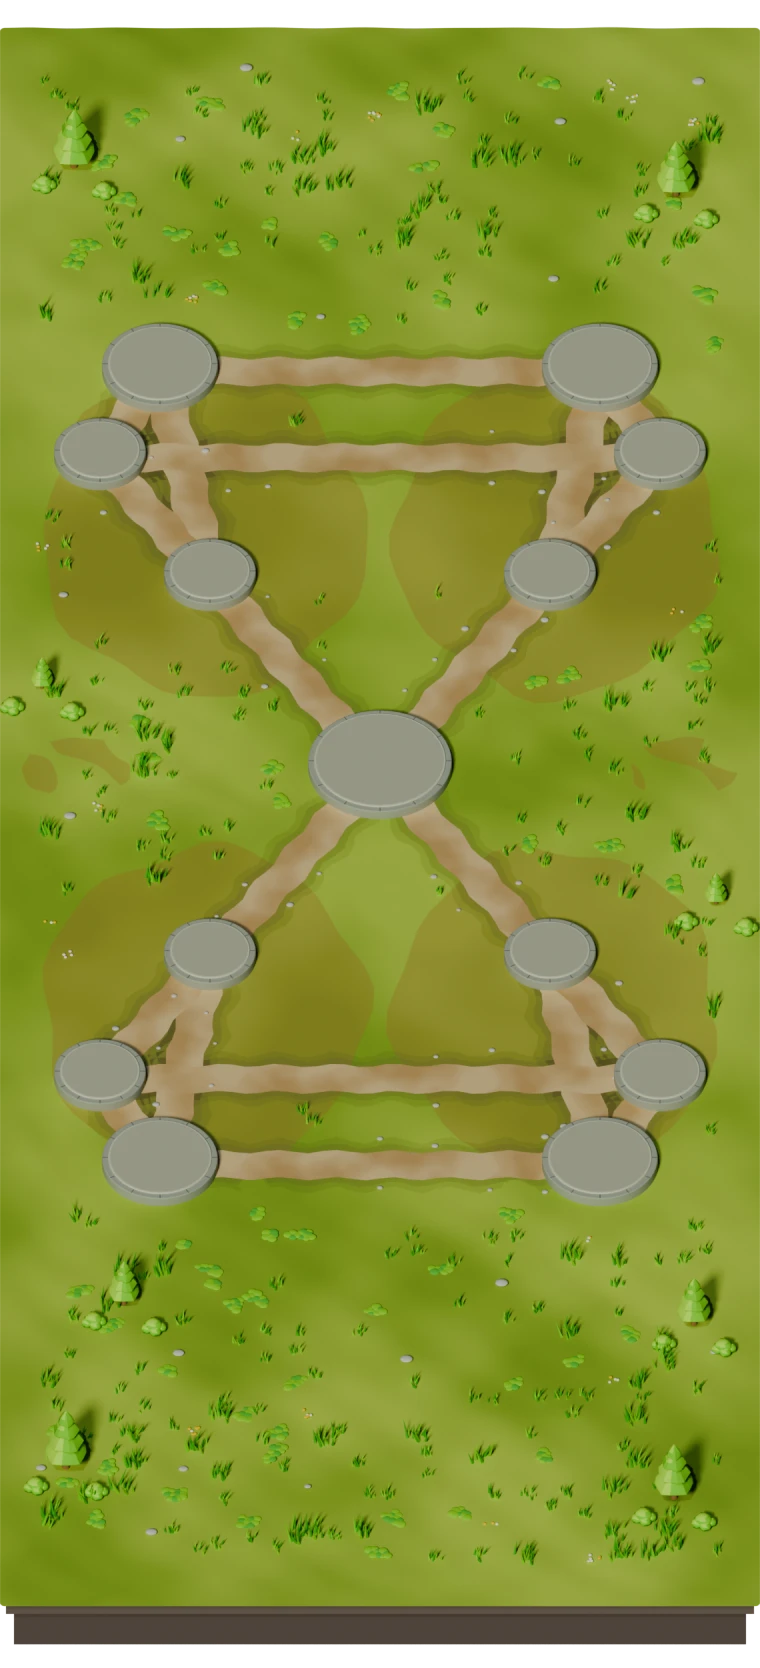
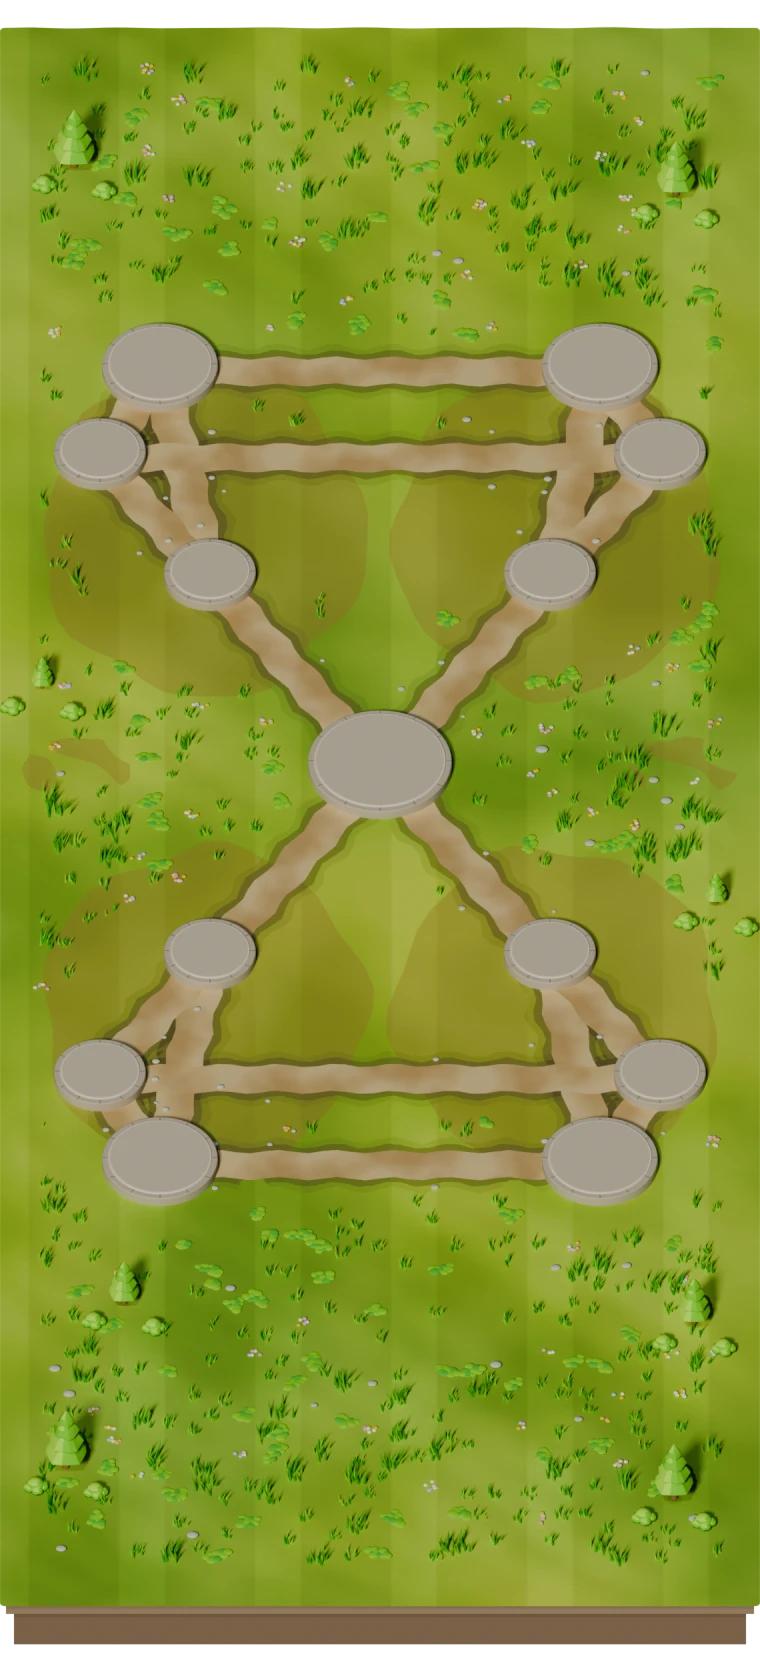
Re-render the four meadow plates with a richer ground: sun patches, stripes, flowers, warm platforms
The ground was one flat saturated green with sparse tufts, grey platforms and a black skirt. Meadow v2 adds
large sun and shade patches, mower stripes, grain, denser tufts and carpet, flower clusters across the lawn,
defined path shoulders, alternating path stones, limestone platforms and an earth skirt. Plates are
re-exported for the SD and HD tiers and the cache keys are bumped.

diff --git a/apps/game/src/scenes/__tests__/GameSceneViewportRelayout.test.ts b/apps/game/src/scenes/__tests__/GameSceneViewportRelayout.test.ts
@@ -583,7 +583,7 @@ describe('GameScene viewport relayout (map uses the live mobile height)', () => 
       const units = image.mock.calls.filter(([, path]) => path.includes('assets/units/'));
       expect(units, 'all leaders, followers and facings need a fresh revision').toHaveLength(16);
       for (const [, path] of units) {
-        expect(new URL(path, 'https://game.invalid/').searchParams.get('v')).toBe('cartoon-meadow-v1.7');
+        expect(new URL(path, 'https://game.invalid/').searchParams.get('v')).toBe('cartoon-meadow-v1.8');
       }
       for (const [key, path] of expectedAssets) {
         const calls = image.mock.calls.filter(([loadedKey]) => loadedKey === key);
@@ -591,7 +591,7 @@ describe('GameScene viewport relayout (map uses the live mobile height)', () => 
         const url = new URL(calls[0][1], 'https://game.invalid/');
         expect(url.pathname).toBe(`/${path}`);
         expect(url.searchParams.get('v'), `${key} must bypass the old immutable cache`)
-          .toBe('cartoon-meadow-v1.7');
+          .toBe('cartoon-meadow-v1.8');
       }
     },
   );

diff --git a/apps/game/src/scenes/GameScene.ts b/apps/game/src/scenes/GameScene.ts
@@ -546,7 +546,7 @@ export class GameScene extends Phaser.Scene {
     const mapArtPath = (path: string): string =>
       hasHdArt(path) && assetTier === 'hd'
         ? `${resolveArtPath(path, assetTier)}?v=${HD_ART_VERSION}`
-        : `${path}?v=cartoon-meadow-v1.7`;
+        : `${path}?v=cartoon-meadow-v1.8`;
     // Track texture files that fail to load so the scene can substitute
     // procedural fallbacks instead of rendering broken sprites (the game must
     // never depend on the Blender source pipeline being present).

diff --git a/apps/game/src/ui/kit/hubBackdrop.ts b/apps/game/src/ui/kit/hubBackdrop.ts
@@ -14,7 +14,7 @@ import { assetTierOf, resolveVersionedArtPath } from '../../art/hdArt.js';
  */
 export const HUB_BACKDROP_KEY = 'hub_meadow';
 export const HUB_BACKDROP_PATH = 'assets/hub/hub_meadow.webp';
-export const HUB_BACKDROP_VERSION = 'hub-meadow-v1';
+export const HUB_BACKDROP_VERSION = 'hub-meadow-v2';
 /** How much of the meadow the dark navy veil covers (higher = darker). */
 const VEIL_ALPHA = 0.34;
 /** Darker band behind the title/subtitle so light text keeps its contrast on the bright meadow. */

diff --git a/apps/game/src/scenes/MenuScene.ts b/apps/game/src/scenes/MenuScene.ts
@@ -208,7 +208,7 @@ export class MenuScene extends Phaser.Scene {
       this,
       [
         { key: 'hub_kingdom_citadel', path: 'assets/hub/kingdom_citadel.webp?v=hub-384-v1' },
-        { key: 'unit_leader_player_front', path: 'assets/units/unit_leader_player_front.png?v=cartoon-meadow-v1.7' },
+        { key: 'unit_leader_player_front', path: 'assets/units/unit_leader_player_front.png?v=cartoon-meadow-v1.8' },
       ],
       () => {
         crest.setVisible(false);

diff --git a/art/blender/crown_cross_kit.py b/art/blender/crown_cross_kit.py
@@ -9,6 +9,7 @@ shared troop bases, three facings each), all rendered through the canonical Art 
 Requires Blender's bpy; the scene builder imports it lazily.
 """
 import math
+import os
 import random
 
 import bpy
@@ -898,8 +899,13 @@ def _distance_to_segment(px, py, ax, ay, bx, by):
     return math.hypot(px - (ax + t * dx), py - (ay + t * dy))
 
 
+# Meadow v2 (Art Bible v1.8): patchy sun/shade tint, mower stripes, grain bump, denser flowers, darker path edges.
+# CC_GROUND_V2=0 renders the shipped v1.7 meadow for comparison.
+GROUND_V2 = os.environ.get('CC_GROUND_V2', '1') != '0'
+
+
 def _noise_material(name, make_material, low, high, scale, roughness=.95, detail=5.0,
-                    speckle=13.0, stripes=0.0, stripe_width=38.0):
+                    speckle=13.0, stripes=0.0, stripe_width=38.0, sun_patches=0.0, grain=0.0):
     """Flat material whose base colour is a multi-octave noise ramp low->high,
     darkened by a fine speckle noise, with optional mower stripes along the
     object X axis (manicured meadows only; amplitude `stripes`)."""
@@ -947,6 +953,35 @@ def _noise_material(name, make_material, low, high, scale, roughness=.95, detail
     links.new(ramp.outputs['Color'], speckle_mix.inputs['A'])
     links.new(speckle_ramp.outputs['Color'], speckle_mix.inputs['B'])
 
+    base_out = speckle_mix.outputs['Result']
+    if sun_patches > 0.0:
+        # Large sun/shade patches: an overlay of a cool dark and a warm bright tint, so the lawn stops reading
+        # as one flat green and light seems to fall across it in slow drifts.
+        patch_noise = nodes.new('ShaderNodeTexNoise')
+        patch_noise.inputs['Scale'].default_value = scale * .42
+        patch_noise.inputs['Detail'].default_value = 2.0
+        patch_noise.inputs['Roughness'].default_value = .5
+        links.new(coordinates.outputs['Object'], patch_noise.inputs['Vector'])
+        patch_ramp = nodes.new('ShaderNodeValToRGB')
+        patch_ramp.color_ramp.elements[0].position = .36
+        patch_ramp.color_ramp.elements[0].color = (.30, .46, .40, 1.0)
+        patch_ramp.color_ramp.elements[1].position = .64
+        patch_ramp.color_ramp.elements[1].color = (.78, .72, .36, 1.0)
+        links.new(patch_noise.outputs['Fac'], patch_ramp.inputs['Fac'])
+        patch_mix = nodes.new('ShaderNodeMix')
+        patch_mix.data_type = 'RGBA'
+        patch_mix.blend_type = 'OVERLAY'
+        patch_mix.inputs['Factor'].default_value = sun_patches
+        links.new(base_out, patch_mix.inputs['A'])
+        links.new(patch_ramp.outputs['Color'], patch_mix.inputs['B'])
+        base_out = patch_mix.outputs['Result']
+    if grain > 0.0:
+        # Fine relief from the speckle noise: catches the key light so the lawn has tooth at phone size.
+        bump = nodes.new('ShaderNodeBump')
+        bump.inputs['Strength'].default_value = grain
+        bump.inputs['Distance'].default_value = .4
+        links.new(speckle_noise.outputs['Fac'], bump.inputs['Height'])
+        links.new(bump.outputs['Normal'], bsdf.inputs['Normal'])
     if stripes > 0.0:
         # Mower stripes: object-space X through a sine -> soft ramp -> subtle
         # multiply. Amplitude is tiny so it reads as upkeep, not zebra paint.
@@ -971,11 +1006,11 @@ def _noise_material(name, make_material, low, high, scale, roughness=.95, detail
         stripe_mix.data_type = 'RGBA'
         stripe_mix.blend_type = 'MULTIPLY'
         stripe_mix.inputs['Factor'].default_value = 1.0
-        links.new(speckle_mix.outputs['Result'], stripe_mix.inputs['A'])
+        links.new(base_out, stripe_mix.inputs['A'])
         links.new(stripe_ramp.outputs['Color'], stripe_mix.inputs['B'])
         links.new(stripe_mix.outputs['Result'], bsdf.inputs['Base Color'])
     else:
-        links.new(speckle_mix.outputs['Result'], bsdf.inputs['Base Color'])
+        links.new(base_out, bsdf.inputs['Base Color'])
     return mat
 
 
@@ -1152,8 +1187,9 @@ def _ground_roads(bf, mats, make_material):
                 # (top at .19); a distinct lift keeps those tops from being
                 # coplanar, which renders black patches under Cycles.
                 stone_z = .13 + lift + (.004 if bf['id'] == 'royal_ring' else 0)
+                tone = mats['paving_dark'] if (GROUND_V2 and rng.random() < .4) else mats['paving']
                 box('worn path stone', (8.5, 13.0, .12), (px, py, stone_z),
-                    mats['paving'], .7, rot=(0, 0, angle + (rng.random() - .5) * .12))
+                    tone, .7, rot=(0, 0, angle + (rng.random() - .5) * .12))
 
 
 def _ground_sockets(bf, ao_mat, plinth_top_z=0.04, diorama=False):
@@ -1362,9 +1398,13 @@ def _ground_scatter(battlefield_id, bf, mats, terrain_z, roads):
             fx, fy = x + r * math.cos(a), y + r * math.sin(a)
             if in_identity_zone(fx, fy):
                 continue
-            white = rng.random() < .55
-            ico('meadow flower', .9, (fx, fy, terrain_z(fx, fy) + .8),
-                mats['flower_light'] if white else mats['flower_dark'], scale=(1.0, 1.0, .5))
+            pick = rng.random()
+            if GROUND_V2:
+                flower_mat = mats['flower_light'] if pick < .4 else mats['flower_dark'] if pick < .65 else mats['flower_pink'] if pick < .85 else mats['flower_blue']
+            else:
+                flower_mat = mats['flower_light'] if pick < .55 else mats['flower_dark']
+            ico('meadow flower', 1.15 if GROUND_V2 else .9, (fx, fy, terrain_z(fx, fy) + .8),
+                flower_mat, scale=(1.0, 1.0, .5))
 
     def clover_patch(x, y):
         # Low, overlapping leaf rosettes read as living ground cover after
@@ -1388,11 +1428,12 @@ def _ground_scatter(battlefield_id, bf, mats, terrain_z, roads):
 
     # Dense meadow carpet between the tactical lanes, with taller growth
     # concentrated in the fringe. All detail is baked into the one plate.
-    for kind, count in (('clover', 64), ('tuft', 190), ('patch', 70), ('flower', 18), ('pebble', 16)):
+    counts = (('clover', 90), ('tuft', 290), ('patch', 100), ('flower', 64), ('pebble', 24)) if GROUND_V2 else (('clover', 64), ('tuft', 190), ('patch', 70), ('flower', 18), ('pebble', 16))
+    for kind, count in counts:
         made = misses = 0
         while made < count and misses < 500:
             misses += 1
-            position = spot(edge_only=(kind in ('patch', 'flower')))
+            position = spot(edge_only=(kind == 'patch' or (kind == 'flower' and not GROUND_V2)))
             if position is None:
                 continue
             x, y = position
@@ -1534,8 +1575,8 @@ def _diorama_slab(make_material):
     lower mass is the visible diorama skirt the camera sees at the board's
     bottom edge. Both sit below the plate (no z-fighting with the relief,
     which dissolves to z=0 at the plate border)."""
-    base = make_material('rgx_slab_mass', (.14, .11, .085), 1.0, use_gradient=False)
-    course = make_material('rgx_slab_course', (.185, .15, .11), 1.0, use_gradient=False)
+    base = make_material('rgx_slab_mass', (.30, .20, .12) if GROUND_V2 else (.14, .11, .085), 1.0, use_gradient=False)
+    course = make_material('rgx_slab_course', (.42, .30, .18) if GROUND_V2 else (.185, .15, .11), 1.0, use_gradient=False)
     top_z = -DIORAMA_SLAB_TOP_DROP
     # Upper stone course: slightly inset so the grass overhangs it.
     box('slab upper course', (374.0, 610.0 + MEADOW_FRINGE * 2.0, 7.0), (0.0, 12.0, top_z - 3.5), course, .04)
@@ -1559,9 +1600,9 @@ def _diorama_plinths(bf, make_material):
     point (boardProjection PLINTH_TOP_LIFT) and traces its ownership ring
     exactly on the plinth rim, so the plinth radius must mirror the client
     socket radius 1:1."""
-    mat = make_material('rgx_plinth', (.38, .41, .30), .92, use_gradient=False)
-    rim_mat = make_material('rgx_plinth_rim', (.62, .63, .44), .88, use_gradient=False)
-    seam_mat = make_material('rgx_plinth_joint', (.15, .17, .14), .95, use_gradient=False)
+    mat = make_material('rgx_plinth', (.55, .47, .34) if GROUND_V2 else (.38, .41, .30), .92, use_gradient=False)
+    rim_mat = make_material('rgx_plinth_rim', (.82, .72, .52) if GROUND_V2 else (.62, .63, .44), .88, use_gradient=False)
+    seam_mat = make_material('rgx_plinth_joint', (.30, .22, .14) if GROUND_V2 else (.15, .17, .14), .95, use_gradient=False)
     for territory in bf['territories']:
         x, y = _to_plane(territory['x'], territory['y'])
         r = _socket_radius(bf, territory)
@@ -1638,14 +1679,18 @@ def ground_plate(battlefield_id, make_material):
     diorama = _is_diorama_ground(battlefield_id)
 
     low, high = GROUND_GRASS_PALETTES[battlefield_id]
-    grass = _noise_material('rgx_grass', make_material, low, high, .008, detail=2.0)
+    if GROUND_V2:
+        grass = _noise_material('rgx_grass', make_material, low, high, .008, detail=2.0,
+                                stripes=.07, stripe_width=34.0, sun_patches=.45, grain=.35)
+    else:
+        grass = _noise_material('rgx_grass', make_material, low, high, .008, detail=2.0)
     plate = _rounded_plate(grass, terrain_z)
 
     mats = {
         'road': _noise_material('rgx_road', make_material,
                                 (.56, .36, .13), (.77, .57, .27), .032, roughness=.9, detail=2),
         'shoulder': _flat_alpha('rgx_shoulder', make_material,
-                                (.37, .36, .095), .20),
+                                (.27, .22, .07) if GROUND_V2 else (.37, .36, .095), .36 if GROUND_V2 else .20),
         'paving': make_material('rgx_paving', (.76, .64, .38), .9, use_gradient=False),
         'ao': _flat_alpha('rgx_ao', make_material, (.03, .045, .025), .07),
         'leaf': make_material('rgx_leaf', (.31, .72, .035), .85, use_gradient=False),
@@ -1655,6 +1700,9 @@ def ground_plate(battlefield_id, make_material):
         'stone': make_material('rgx_stone', (.59, .59, .47), .9, use_gradient=False),
         'flower_light': make_material('rgx_flowerl', (1.0, .95, .69), .8, use_gradient=False),
         'flower_dark': make_material('rgx_flowerd', (1.0, .62, .035), .8, use_gradient=False),
+        'flower_pink': make_material('rgx_flowerp', (.96, .38, .55), .8, use_gradient=False),
+        'flower_blue': make_material('rgx_flowerb', (.5, .62, 1.0), .8, use_gradient=False),
+        'paving_dark': make_material('rgx_pavingd', (.62, .50, .29), .9, use_gradient=False),
     }
     if diorama:
         # Extruded slab skirt + raised stone plinths: the playfield itself

diff --git a/ART_BIBLE.md b/ART_BIBLE.md
@@ -38,6 +38,13 @@ hit radii and replays are not affected. Tried and rejected: a camera colour filt
 Freestyle toon outline (it also outlines the contact-shadow ellipse) and a brighter `vivid` Blender light preset (not visible at
 game size; it stays available as `--look vivid`).
 
+**Meadow v2 (v1.8):** the four ground plates are re-rendered with `GROUND_V2` in `art/blender/crown_cross_kit.py`
+(`CC_GROUND_V2=0` renders the v1.7 meadow): large sun/shade patches (overlay of a cool dark and a warm bright tint), faint
+mower stripes, a fine grain bump, about 50% more tufts and carpet, clustered white/yellow/pink/blue flowers all over the
+lawn (not only the fringe), darker earth shoulders that define each path, alternating light/dark path stones, warm limestone
+platforms and a brown earth skirt instead of grey and black. Layout, roads, sockets and the camera are untouched. Old masters:
+`art/blender/renders-v17/grounds` (git-ignored). Art cache keys: `cartoon-meadow-v1.8`, `hub-meadow-v2`, HD `hd-v4`.
+
 **v1.7:** hub screens sit on a Blender meadow backdrop and the menu hero is the rendered
 citadel with two knights (§17); battle feel tiers and match start/end beats (§7).
 

diff --git a/docs/art/README.md b/docs/art/README.md
@@ -1,7 +1,7 @@
 # Battlefield Art Pipeline (Blender → Runtime)
 
 Production caches fixed sprite filenames for 30 days. `GameScene.preload()`
-adds `?v=cartoon-meadow-v1.7` to ground, building, shared prop **and all marching-unit** requests.
+adds `?v=cartoon-meadow-v1.8` to ground, building, shared prop **and all marching-unit** requests.
 Bump that revision whenever this baked map kit changes, and update the preload
 regression test, so returning players receive matching terrain, buildings and troops.
 
